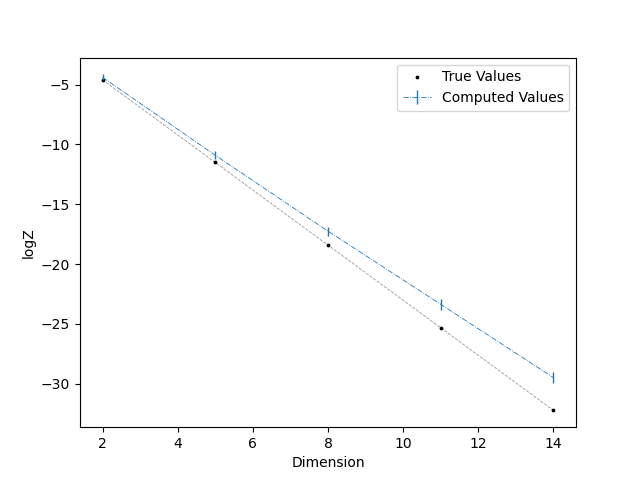
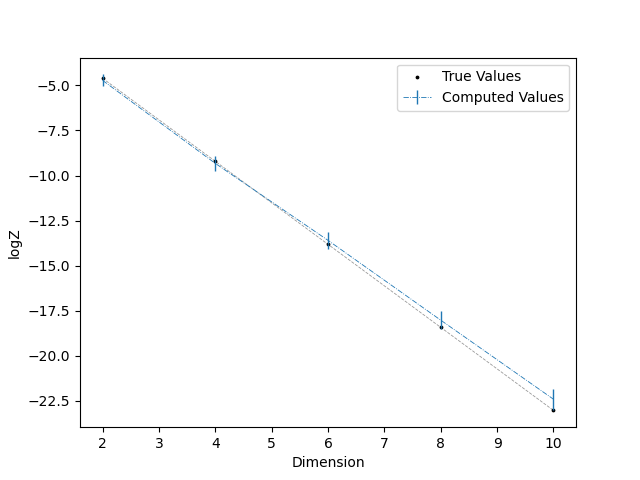
k_n modified

diff --git a/nested_sampling.py b/nested_sampling.py
@@ -160,7 +160,7 @@ if __name__ == "__main__":
                     \n Dimension of the integral = {d}
                     \n Number of steps required = {steps}
                     \n Evidence = {log_evidence:.2f} +- {error:.2f}
-                    \n Theoretical value = {d*np.log(2*boundary)}
+                    \n Theoretical value = -{d*np.log(2*boundary)}
                     \n Information = {np.exp(logH)[-1]:.2f}
                     \n Maximum of the likelihood = {(1/np.sqrt(2*np.pi))**d:.2f}
                     \n Proposal chosen: {prop}

diff --git a/functions.py b/functions.py
@@ -133,7 +133,7 @@ def proposal(x, dim, logLmin, boundary_point, boundary, std, distribution):
     rejected = 0
     n = 0
     c = 0
-    k_n = np.log(dim+5)
+    k_n = 1/(2*np.log(dim+1))
 
     while True:
         new_line = np.zeros(dim+1, dtype=np.float64)
